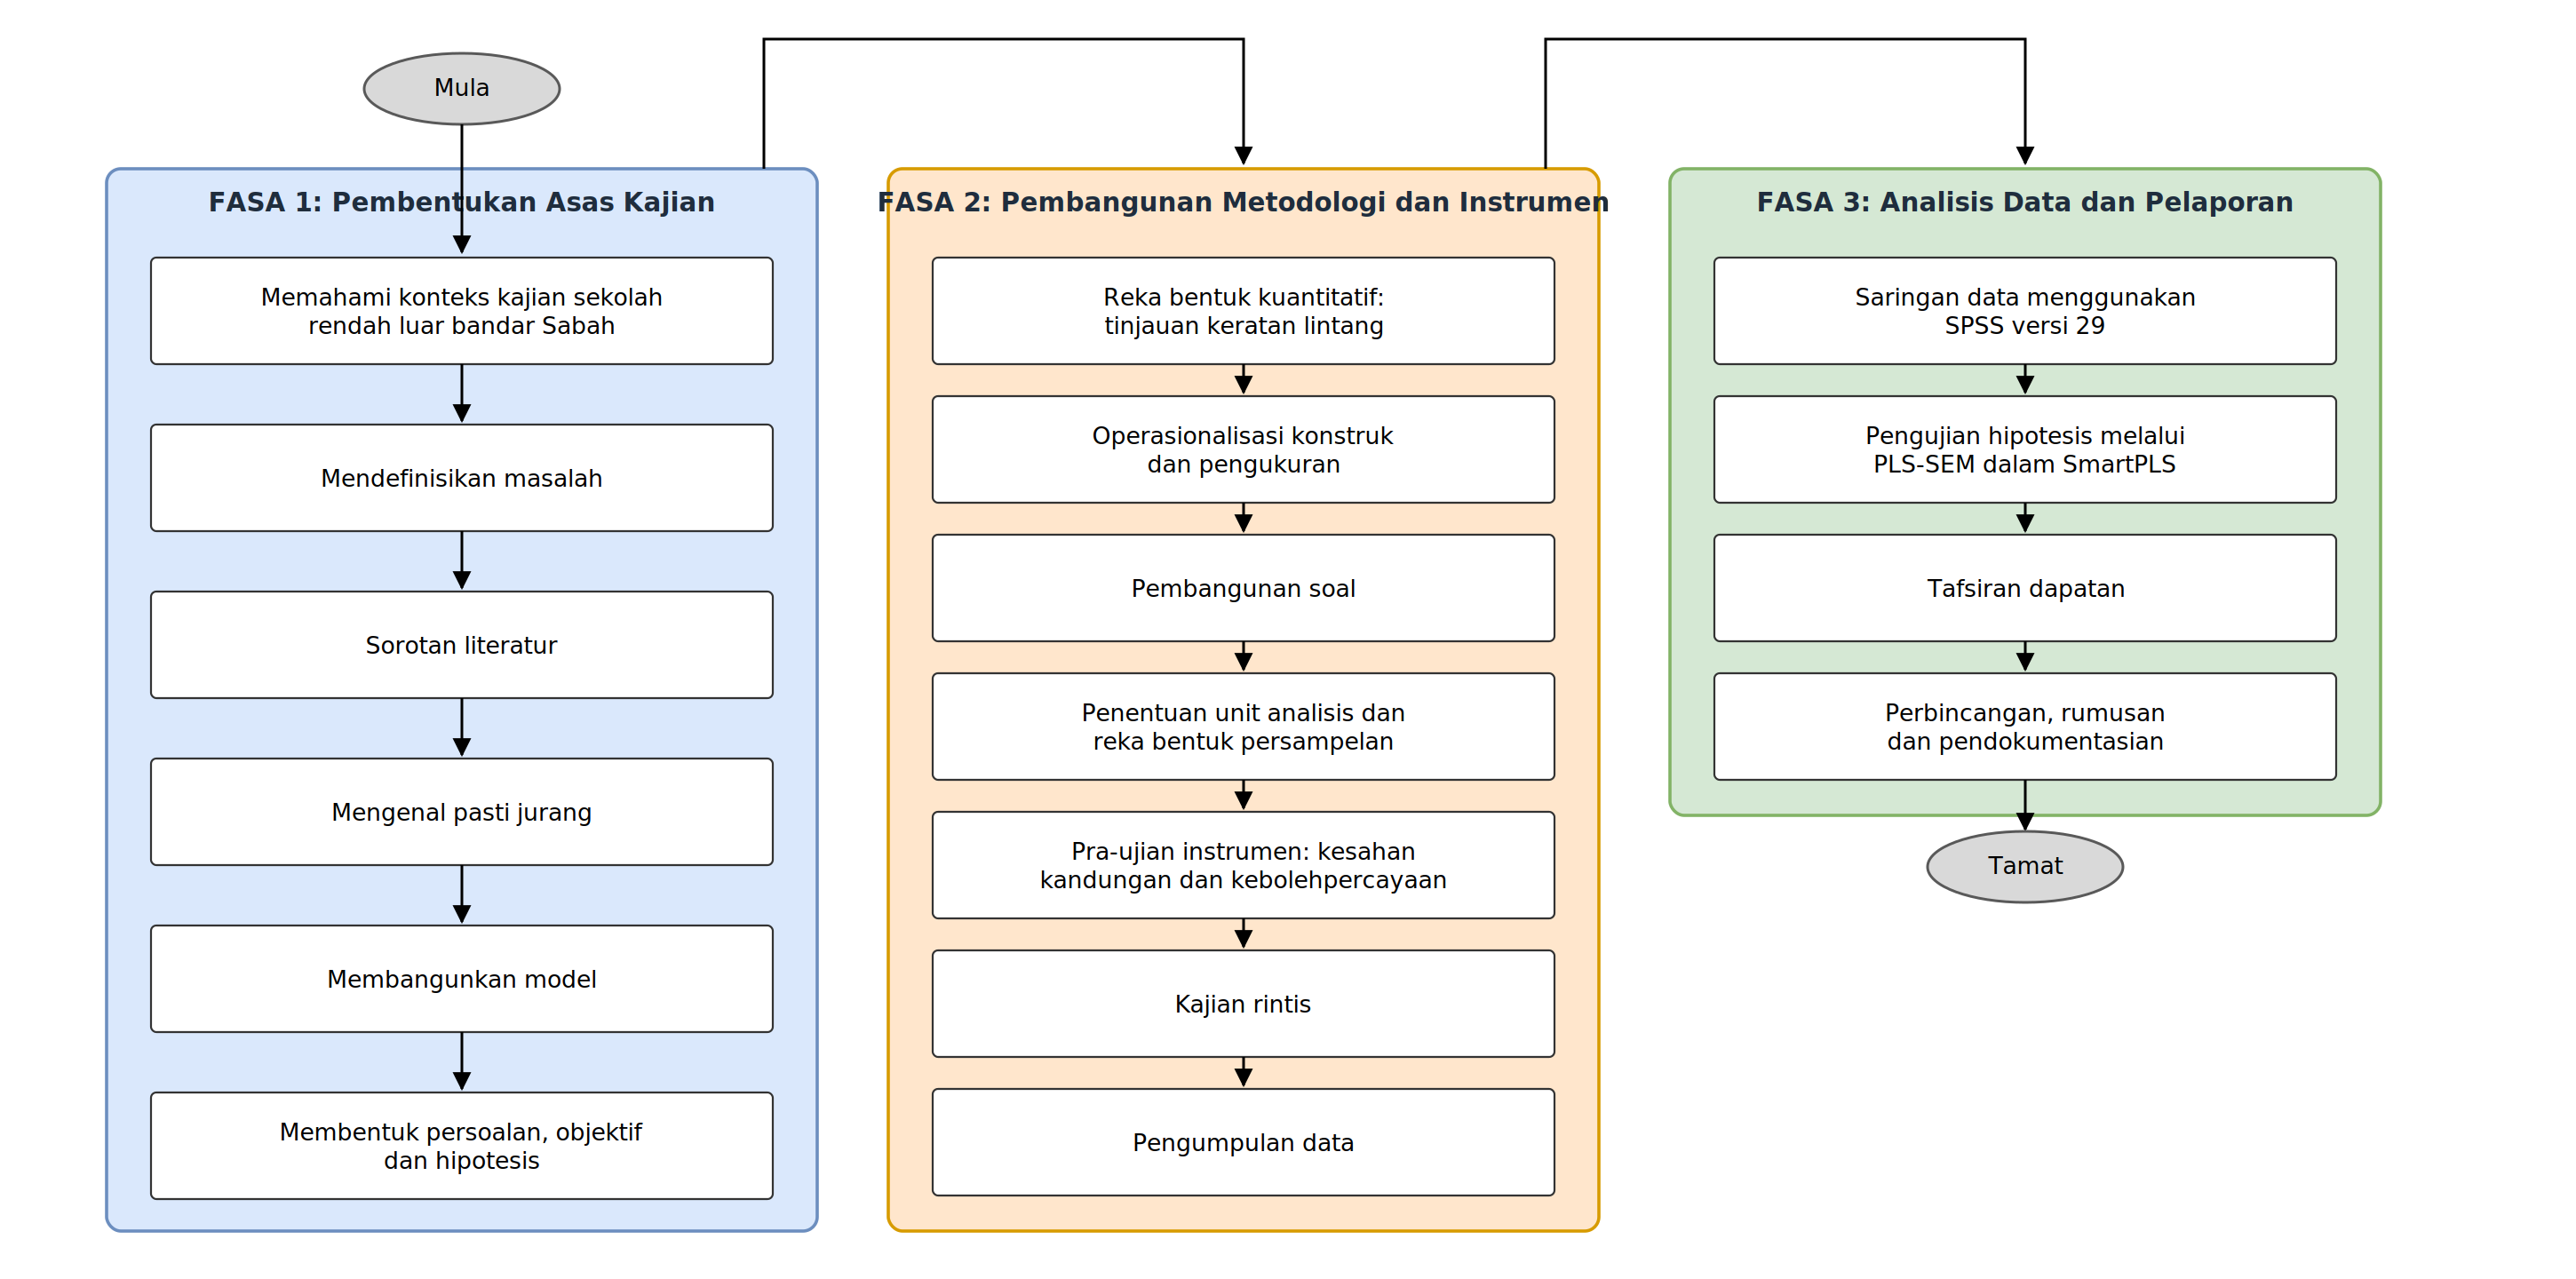
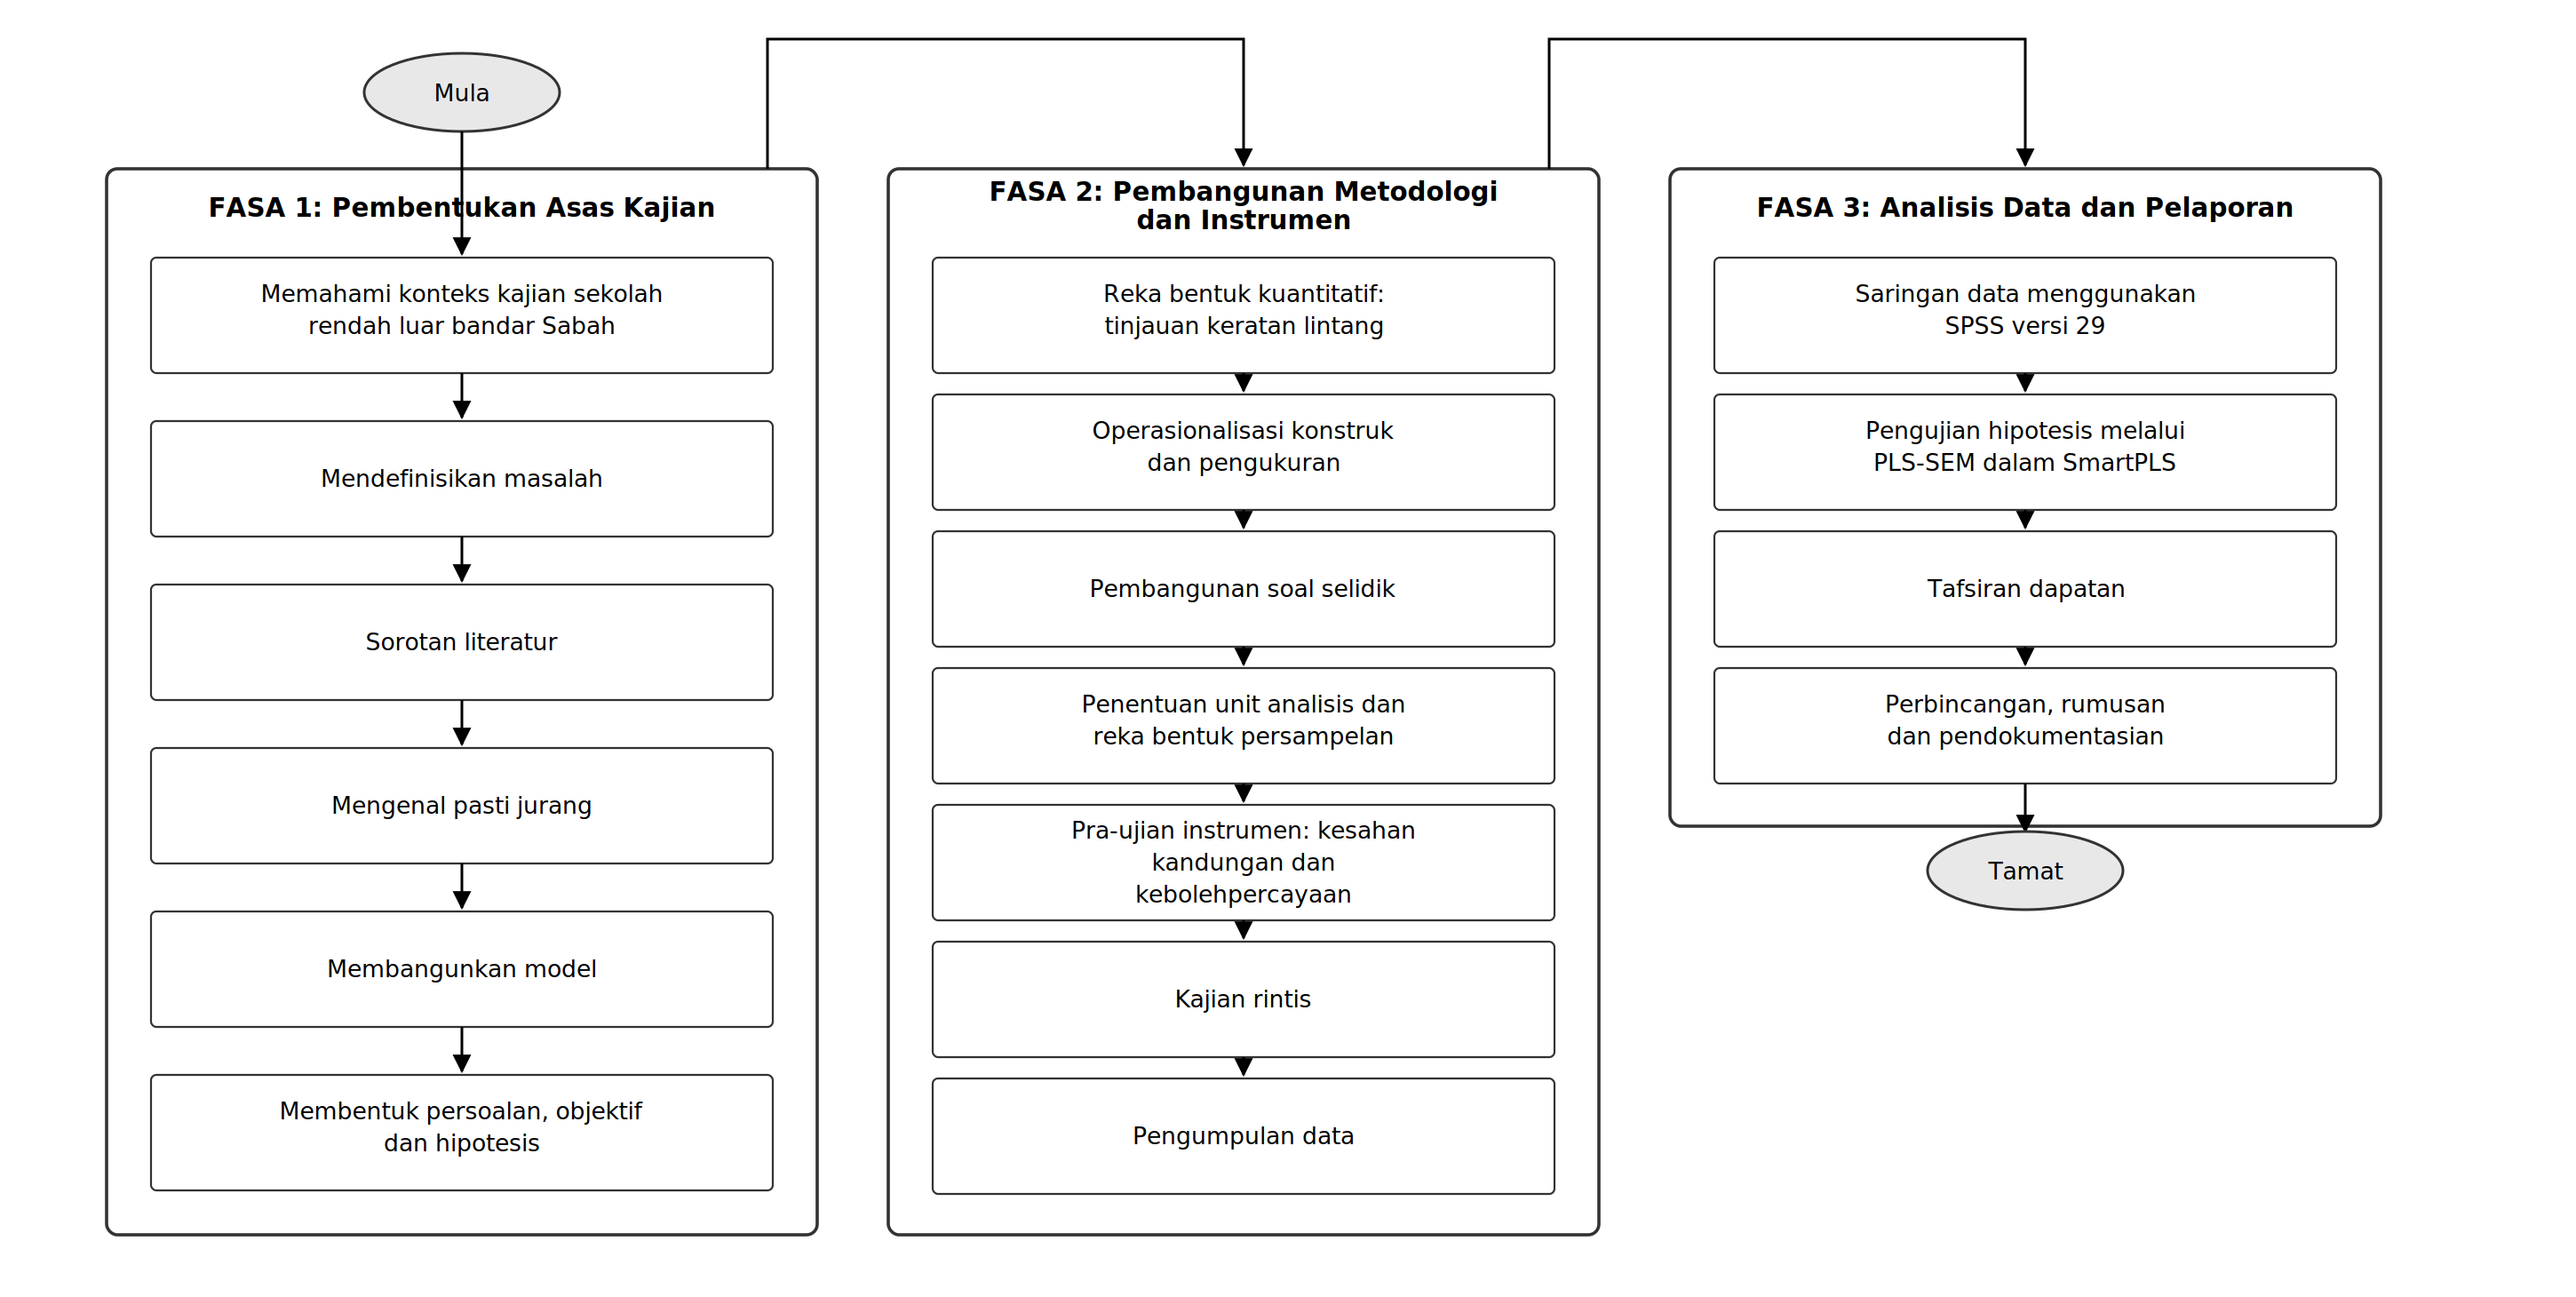
fix: remove color tones from phase frames and ensure text fits within boxes
All phase frame backgrounds changed to white (no color tone).
Box height increased from 60px to 65px. Long text strings split into
more lines to prevent overflow. FASA 2 box 5 split into 3 lines.

https://claude.ai/code/session_01TcAawKjrDPgshdcGRMTjRm

diff --git a/rajah_aliran_kajian.html b/rajah_aliran_kajian.html
@@ -41,7 +41,16 @@
 <div class="container">
 <h1 class="tajuk">Rajah Aliran Proses Kajian</h1>
 
-<svg viewBox="0 0 1450 720" xmlns="http://www.w3.org/2000/svg"
+<!--
+  Layout:
+  - Box height: 65px, box width: 350px
+  - FASA 1 boxes (6): y = 145, 237, 329, 421, 513, 605  (gap ~27px)
+  - FASA 2 boxes (7): y = 145, 222, 299, 376, 453, 530, 607  (gap ~12px)
+  - FASA 3 boxes (4): y = 145, 222, 299, 376  (gap ~12px)
+  - Phase frames: white fill, black border (no color tone)
+  - Text: single-line y = y_top+37; two-lines y1 = y_top+25, y2 = y_top+43
+-->
+<svg viewBox="0 0 1450 730" xmlns="http://www.w3.org/2000/svg"
      font-family="Tahoma, Geneva, sans-serif">
 
   <defs>
@@ -51,195 +60,213 @@
     </marker>
   </defs>
 
-  <!-- ========== PHASE FRAMES ========== -->
-  <!-- FASA 1: Light Blue -->
-  <rect x="60" y="95" width="400" height="598" rx="8" ry="8"
-        fill="#DAE8FC" stroke="#6C8EBF" stroke-width="1.8"/>
-  <!-- FASA 2: Light Orange/Peach -->
-  <rect x="500" y="95" width="400" height="598" rx="8" ry="8"
-        fill="#FFE6CC" stroke="#D79B00" stroke-width="1.8"/>
-  <!-- FASA 3: Light Green -->
-  <rect x="940" y="95" width="400" height="364" rx="8" ry="8"
-        fill="#D5E8D4" stroke="#82B366" stroke-width="1.8"/>
+  <!-- ========== PHASE FRAMES (no color tone — white fill, black border) ========== -->
+  <!-- FASA 1 -->
+  <rect x="60" y="95" width="400" height="600" rx="6" ry="6"
+        fill="#FFFFFF" stroke="#333" stroke-width="1.8"/>
+  <!-- FASA 2 -->
+  <rect x="500" y="95" width="400" height="600" rx="6" ry="6"
+        fill="#FFFFFF" stroke="#333" stroke-width="1.8"/>
+  <!-- FASA 3 -->
+  <rect x="940" y="95" width="400" height="370" rx="6" ry="6"
+        fill="#FFFFFF" stroke="#333" stroke-width="1.8"/>
 
   <!-- ========== PHASE TITLES ========== -->
-  <text x="260" y="119" font-size="11pt" font-weight="bold" text-anchor="middle" fill="#1F2D3D">
+  <text x="260" y="122" font-size="11pt" font-weight="bold" text-anchor="middle" fill="#000">
     FASA 1: Pembentukan Asas Kajian
   </text>
-  <text x="700" y="119" font-size="11pt" font-weight="bold" text-anchor="middle" fill="#1F2D3D">
-    FASA 2: Pembangunan Metodologi dan Instrumen
+  <text font-size="11pt" font-weight="bold" text-anchor="middle" fill="#000">
+    <tspan x="700" y="113">FASA 2: Pembangunan Metodologi</tspan>
+    <tspan x="700" y="129">dan Instrumen</tspan>
   </text>
-  <text x="1140" y="119" font-size="11pt" font-weight="bold" text-anchor="middle" fill="#1F2D3D">
+  <text x="1140" y="122" font-size="11pt" font-weight="bold" text-anchor="middle" fill="#000">
     FASA 3: Analisis Data dan Pelaporan
   </text>
 
   <!-- ========== MULA ========== -->
-  <ellipse cx="260" cy="50" rx="55" ry="20"
-           fill="#D9D9D9" stroke="#595959" stroke-width="1.5"/>
-  <text x="260" y="54" font-size="10pt" text-anchor="middle">Mula</text>
+  <ellipse cx="260" cy="52" rx="55" ry="22"
+           fill="#E8E8E8" stroke="#333" stroke-width="1.5"/>
+  <text x="260" y="57" font-size="10pt" text-anchor="middle" fill="#000">Mula</text>
 
-  <!-- Mula -> first box of FASA 1 -->
-  <line x1="260" y1="70" x2="260" y2="142" stroke="#000" stroke-width="1.5"
+  <!-- Mula -> FASA 1 box 1 -->
+  <line x1="260" y1="74" x2="260" y2="143" stroke="#000" stroke-width="1.5"
         marker-end="url(#arrow)"/>
 
   <!-- ========== TOP INTER-PHASE CONNECTORS ========== -->
-  <!-- FASA 1 top-right -> FASA 2 top-center -->
-  <path d="M 430 95 L 430 22 L 700 22 L 700 92" fill="none"
+  <!-- FASA 1 top-right -> top of FASA 2 -->
+  <path d="M 432 95 L 432 22 L 700 22 L 700 93" fill="none"
         stroke="#000" stroke-width="1.5" marker-end="url(#arrow)"/>
-  <!-- FASA 2 top-right -> FASA 3 top-center -->
-  <path d="M 870 95 L 870 22 L 1140 22 L 1140 92" fill="none"
+  <!-- FASA 2 top-right -> top of FASA 3 -->
+  <path d="M 872 95 L 872 22 L 1140 22 L 1140 93" fill="none"
         stroke="#000" stroke-width="1.5" marker-end="url(#arrow)"/>
 
   <!-- ============================================================ -->
-  <!-- ================== FASA 1 BOXES ============================ -->
+  <!-- =================== FASA 1 BOXES =========================== -->
   <!-- ============================================================ -->
 
-  <!-- Box 1 -->
-  <rect x="85" y="145" width="350" height="60" rx="3" ry="3"
+  <!-- F1 Box 1: y=145  two lines -->
+  <rect x="85" y="145" width="350" height="65" rx="3" ry="3"
         fill="#FFFFFF" stroke="#333" stroke-width="1.1"/>
-  <text font-size="10pt" text-anchor="middle">
-    <tspan x="260" y="172">Memahami konteks kajian sekolah</tspan>
+  <text font-size="10pt" text-anchor="middle" fill="#000">
+    <tspan x="260" y="170">Memahami konteks kajian sekolah</tspan>
     <tspan x="260" y="188">rendah luar bandar Sabah</tspan>
   </text>
 
-  <!-- Box 2 -->
-  <rect x="85" y="239" width="350" height="60" rx="3" ry="3"
+  <!-- F1 Box 2: y=237  one line -->
+  <rect x="85" y="237" width="350" height="65" rx="3" ry="3"
         fill="#FFFFFF" stroke="#333" stroke-width="1.1"/>
-  <text x="260" y="274" font-size="10pt" text-anchor="middle">Mendefinisikan masalah</text>
-
-  <!-- Box 3 -->
-  <rect x="85" y="333" width="350" height="60" rx="3" ry="3"
-        fill="#FFFFFF" stroke="#333" stroke-width="1.1"/>
-  <text x="260" y="368" font-size="10pt" text-anchor="middle">Sorotan literatur</text>
-
-  <!-- Box 4 -->
-  <rect x="85" y="427" width="350" height="60" rx="3" ry="3"
-        fill="#FFFFFF" stroke="#333" stroke-width="1.1"/>
-  <text x="260" y="462" font-size="10pt" text-anchor="middle">Mengenal pasti jurang</text>
-
-  <!-- Box 5 -->
-  <rect x="85" y="521" width="350" height="60" rx="3" ry="3"
-        fill="#FFFFFF" stroke="#333" stroke-width="1.1"/>
-  <text x="260" y="556" font-size="10pt" text-anchor="middle">Membangunkan model</text>
-
-  <!-- Box 6 -->
-  <rect x="85" y="615" width="350" height="60" rx="3" ry="3"
-        fill="#FFFFFF" stroke="#333" stroke-width="1.1"/>
-  <text font-size="10pt" text-anchor="middle">
-    <tspan x="260" y="642">Membentuk persoalan, objektif</tspan>
-    <tspan x="260" y="658">dan hipotesis</tspan>
+  <text x="260" y="274" font-size="10pt" text-anchor="middle" fill="#000">
+    Mendefinisikan masalah
   </text>
 
-  <!-- FASA 1 internal arrows -->
-  <line x1="260" y1="205" x2="260" y2="237" stroke="#000" stroke-width="1.5" marker-end="url(#arrow)"/>
-  <line x1="260" y1="299" x2="260" y2="331" stroke="#000" stroke-width="1.5" marker-end="url(#arrow)"/>
-  <line x1="260" y1="393" x2="260" y2="425" stroke="#000" stroke-width="1.5" marker-end="url(#arrow)"/>
-  <line x1="260" y1="487" x2="260" y2="519" stroke="#000" stroke-width="1.5" marker-end="url(#arrow)"/>
-  <line x1="260" y1="581" x2="260" y2="613" stroke="#000" stroke-width="1.5" marker-end="url(#arrow)"/>
-
-  <!-- ============================================================ -->
-  <!-- ================== FASA 2 BOXES ============================ -->
-  <!-- ============================================================ -->
-
-  <!-- Box 1 -->
-  <rect x="525" y="145" width="350" height="60" rx="3" ry="3"
+  <!-- F1 Box 3: y=329  one line -->
+  <rect x="85" y="329" width="350" height="65" rx="3" ry="3"
         fill="#FFFFFF" stroke="#333" stroke-width="1.1"/>
-  <text font-size="10pt" text-anchor="middle">
-    <tspan x="700" y="172">Reka bentuk kuantitatif:</tspan>
+  <text x="260" y="366" font-size="10pt" text-anchor="middle" fill="#000">
+    Sorotan literatur
+  </text>
+
+  <!-- F1 Box 4: y=421  one line -->
+  <rect x="85" y="421" width="350" height="65" rx="3" ry="3"
+        fill="#FFFFFF" stroke="#333" stroke-width="1.1"/>
+  <text x="260" y="458" font-size="10pt" text-anchor="middle" fill="#000">
+    Mengenal pasti jurang
+  </text>
+
+  <!-- F1 Box 5: y=513  one line -->
+  <rect x="85" y="513" width="350" height="65" rx="3" ry="3"
+        fill="#FFFFFF" stroke="#333" stroke-width="1.1"/>
+  <text x="260" y="550" font-size="10pt" text-anchor="middle" fill="#000">
+    Membangunkan model
+  </text>
+
+  <!-- F1 Box 6: y=605  two lines -->
+  <rect x="85" y="605" width="350" height="65" rx="3" ry="3"
+        fill="#FFFFFF" stroke="#333" stroke-width="1.1"/>
+  <text font-size="10pt" text-anchor="middle" fill="#000">
+    <tspan x="260" y="630">Membentuk persoalan, objektif</tspan>
+    <tspan x="260" y="648">dan hipotesis</tspan>
+  </text>
+
+  <!-- FASA 1 internal arrows  (bottom of box = y_top+65, next top = y_top+65+gap) -->
+  <line x1="260" y1="210" x2="260" y2="235" stroke="#000" stroke-width="1.5" marker-end="url(#arrow)"/>
+  <line x1="260" y1="302" x2="260" y2="327" stroke="#000" stroke-width="1.5" marker-end="url(#arrow)"/>
+  <line x1="260" y1="394" x2="260" y2="419" stroke="#000" stroke-width="1.5" marker-end="url(#arrow)"/>
+  <line x1="260" y1="486" x2="260" y2="511" stroke="#000" stroke-width="1.5" marker-end="url(#arrow)"/>
+  <line x1="260" y1="578" x2="260" y2="603" stroke="#000" stroke-width="1.5" marker-end="url(#arrow)"/>
+
+  <!-- ============================================================ -->
+  <!-- =================== FASA 2 BOXES =========================== -->
+  <!-- ============================================================ -->
+
+  <!-- F2 Box 1: y=145  two lines -->
+  <rect x="525" y="145" width="350" height="65" rx="3" ry="3"
+        fill="#FFFFFF" stroke="#333" stroke-width="1.1"/>
+  <text font-size="10pt" text-anchor="middle" fill="#000">
+    <tspan x="700" y="170">Reka bentuk kuantitatif:</tspan>
     <tspan x="700" y="188">tinjauan keratan lintang</tspan>
   </text>
 
-  <!-- Box 2 -->
-  <rect x="525" y="223" width="350" height="60" rx="3" ry="3"
+  <!-- F2 Box 2: y=222  two lines -->
+  <rect x="525" y="222" width="350" height="65" rx="3" ry="3"
         fill="#FFFFFF" stroke="#333" stroke-width="1.1"/>
-  <text font-size="10pt" text-anchor="middle">
-    <tspan x="700" y="250">Operasionalisasi konstruk</tspan>
-    <tspan x="700" y="266">dan pengukuran</tspan>
+  <text font-size="10pt" text-anchor="middle" fill="#000">
+    <tspan x="700" y="247">Operasionalisasi konstruk</tspan>
+    <tspan x="700" y="265">dan pengukuran</tspan>
   </text>
 
-  <!-- Box 3 -->
-  <rect x="525" y="301" width="350" height="60" rx="3" ry="3"
+  <!-- F2 Box 3: y=299  one line -->
+  <rect x="525" y="299" width="350" height="65" rx="3" ry="3"
         fill="#FFFFFF" stroke="#333" stroke-width="1.1"/>
-  <text x="700" y="336" font-size="10pt" text-anchor="middle">Pembangunan soal</text>
-
-  <!-- Box 4 -->
-  <rect x="525" y="379" width="350" height="60" rx="3" ry="3"
-        fill="#FFFFFF" stroke="#333" stroke-width="1.1"/>
-  <text font-size="10pt" text-anchor="middle">
-    <tspan x="700" y="406">Penentuan unit analisis dan</tspan>
-    <tspan x="700" y="422">reka bentuk persampelan</tspan>
+  <text x="700" y="336" font-size="10pt" text-anchor="middle" fill="#000">
+    Pembangunan soal selidik
   </text>
 
-  <!-- Box 5 -->
-  <rect x="525" y="457" width="350" height="60" rx="3" ry="3"
+  <!-- F2 Box 4: y=376  two lines -->
+  <rect x="525" y="376" width="350" height="65" rx="3" ry="3"
         fill="#FFFFFF" stroke="#333" stroke-width="1.1"/>
-  <text font-size="10pt" text-anchor="middle">
-    <tspan x="700" y="484">Pra-ujian instrumen: kesahan</tspan>
-    <tspan x="700" y="500">kandungan dan kebolehpercayaan</tspan>
+  <text font-size="10pt" text-anchor="middle" fill="#000">
+    <tspan x="700" y="401">Penentuan unit analisis dan</tspan>
+    <tspan x="700" y="419">reka bentuk persampelan</tspan>
   </text>
 
-  <!-- Box 6 -->
-  <rect x="525" y="535" width="350" height="60" rx="3" ry="3"
+  <!-- F2 Box 5: y=453  three lines (long text) -->
+  <rect x="525" y="453" width="350" height="65" rx="3" ry="3"
         fill="#FFFFFF" stroke="#333" stroke-width="1.1"/>
-  <text x="700" y="570" font-size="10pt" text-anchor="middle">Kajian rintis</text>
+  <text font-size="10pt" text-anchor="middle" fill="#000">
+    <tspan x="700" y="472">Pra-ujian instrumen: kesahan</tspan>
+    <tspan x="700" y="490">kandungan dan</tspan>
+    <tspan x="700" y="508">kebolehpercayaan</tspan>
+  </text>
 
-  <!-- Box 7 -->
-  <rect x="525" y="613" width="350" height="60" rx="3" ry="3"
+  <!-- F2 Box 6: y=530  one line -->
+  <rect x="525" y="530" width="350" height="65" rx="3" ry="3"
         fill="#FFFFFF" stroke="#333" stroke-width="1.1"/>
-  <text x="700" y="648" font-size="10pt" text-anchor="middle">Pengumpulan data</text>
+  <text x="700" y="567" font-size="10pt" text-anchor="middle" fill="#000">
+    Kajian rintis
+  </text>
+
+  <!-- F2 Box 7: y=607  one line -->
+  <rect x="525" y="607" width="350" height="65" rx="3" ry="3"
+        fill="#FFFFFF" stroke="#333" stroke-width="1.1"/>
+  <text x="700" y="644" font-size="10pt" text-anchor="middle" fill="#000">
+    Pengumpulan data
+  </text>
 
   <!-- FASA 2 internal arrows -->
-  <line x1="700" y1="205" x2="700" y2="221" stroke="#000" stroke-width="1.5" marker-end="url(#arrow)"/>
-  <line x1="700" y1="283" x2="700" y2="299" stroke="#000" stroke-width="1.5" marker-end="url(#arrow)"/>
-  <line x1="700" y1="361" x2="700" y2="377" stroke="#000" stroke-width="1.5" marker-end="url(#arrow)"/>
-  <line x1="700" y1="439" x2="700" y2="455" stroke="#000" stroke-width="1.5" marker-end="url(#arrow)"/>
-  <line x1="700" y1="517" x2="700" y2="533" stroke="#000" stroke-width="1.5" marker-end="url(#arrow)"/>
-  <line x1="700" y1="595" x2="700" y2="611" stroke="#000" stroke-width="1.5" marker-end="url(#arrow)"/>
+  <line x1="700" y1="210" x2="700" y2="220" stroke="#000" stroke-width="1.5" marker-end="url(#arrow)"/>
+  <line x1="700" y1="287" x2="700" y2="297" stroke="#000" stroke-width="1.5" marker-end="url(#arrow)"/>
+  <line x1="700" y1="364" x2="700" y2="374" stroke="#000" stroke-width="1.5" marker-end="url(#arrow)"/>
+  <line x1="700" y1="441" x2="700" y2="451" stroke="#000" stroke-width="1.5" marker-end="url(#arrow)"/>
+  <line x1="700" y1="518" x2="700" y2="528" stroke="#000" stroke-width="1.5" marker-end="url(#arrow)"/>
+  <line x1="700" y1="595" x2="700" y2="605" stroke="#000" stroke-width="1.5" marker-end="url(#arrow)"/>
 
   <!-- ============================================================ -->
-  <!-- ================== FASA 3 BOXES ============================ -->
+  <!-- =================== FASA 3 BOXES =========================== -->
   <!-- ============================================================ -->
 
-  <!-- Box 1 -->
-  <rect x="965" y="145" width="350" height="60" rx="3" ry="3"
+  <!-- F3 Box 1: y=145  two lines -->
+  <rect x="965" y="145" width="350" height="65" rx="3" ry="3"
         fill="#FFFFFF" stroke="#333" stroke-width="1.1"/>
-  <text font-size="10pt" text-anchor="middle">
-    <tspan x="1140" y="172">Saringan data menggunakan</tspan>
+  <text font-size="10pt" text-anchor="middle" fill="#000">
+    <tspan x="1140" y="170">Saringan data menggunakan</tspan>
     <tspan x="1140" y="188">SPSS versi 29</tspan>
   </text>
 
-  <!-- Box 2 -->
-  <rect x="965" y="223" width="350" height="60" rx="3" ry="3"
+  <!-- F3 Box 2: y=222  two lines -->
+  <rect x="965" y="222" width="350" height="65" rx="3" ry="3"
         fill="#FFFFFF" stroke="#333" stroke-width="1.1"/>
-  <text font-size="10pt" text-anchor="middle">
-    <tspan x="1140" y="250">Pengujian hipotesis melalui</tspan>
-    <tspan x="1140" y="266">PLS-SEM dalam SmartPLS</tspan>
+  <text font-size="10pt" text-anchor="middle" fill="#000">
+    <tspan x="1140" y="247">Pengujian hipotesis melalui</tspan>
+    <tspan x="1140" y="265">PLS-SEM dalam SmartPLS</tspan>
   </text>
 
-  <!-- Box 3 -->
-  <rect x="965" y="301" width="350" height="60" rx="3" ry="3"
+  <!-- F3 Box 3: y=299  one line -->
+  <rect x="965" y="299" width="350" height="65" rx="3" ry="3"
         fill="#FFFFFF" stroke="#333" stroke-width="1.1"/>
-  <text x="1140" y="336" font-size="10pt" text-anchor="middle">Tafsiran dapatan</text>
+  <text x="1140" y="336" font-size="10pt" text-anchor="middle" fill="#000">
+    Tafsiran dapatan
+  </text>
 
-  <!-- Box 4 -->
-  <rect x="965" y="379" width="350" height="60" rx="3" ry="3"
+  <!-- F3 Box 4: y=376  two lines -->
+  <rect x="965" y="376" width="350" height="65" rx="3" ry="3"
         fill="#FFFFFF" stroke="#333" stroke-width="1.1"/>
-  <text font-size="10pt" text-anchor="middle">
-    <tspan x="1140" y="406">Perbincangan, rumusan</tspan>
-    <tspan x="1140" y="422">dan pendokumentasian</tspan>
+  <text font-size="10pt" text-anchor="middle" fill="#000">
+    <tspan x="1140" y="401">Perbincangan, rumusan</tspan>
+    <tspan x="1140" y="419">dan pendokumentasian</tspan>
   </text>
 
   <!-- FASA 3 internal arrows -->
-  <line x1="1140" y1="205" x2="1140" y2="221" stroke="#000" stroke-width="1.5" marker-end="url(#arrow)"/>
-  <line x1="1140" y1="283" x2="1140" y2="299" stroke="#000" stroke-width="1.5" marker-end="url(#arrow)"/>
-  <line x1="1140" y1="361" x2="1140" y2="377" stroke="#000" stroke-width="1.5" marker-end="url(#arrow)"/>
+  <line x1="1140" y1="210" x2="1140" y2="220" stroke="#000" stroke-width="1.5" marker-end="url(#arrow)"/>
+  <line x1="1140" y1="287" x2="1140" y2="297" stroke="#000" stroke-width="1.5" marker-end="url(#arrow)"/>
+  <line x1="1140" y1="364" x2="1140" y2="374" stroke="#000" stroke-width="1.5" marker-end="url(#arrow)"/>
 
   <!-- ========== TAMAT ========== -->
-  <!-- Arrow from FASA 3 box 4 -> Tamat -->
-  <line x1="1140" y1="439" x2="1140" y2="467" stroke="#000" stroke-width="1.5" marker-end="url(#arrow)"/>
-  <ellipse cx="1140" cy="488" rx="55" ry="20"
-           fill="#D9D9D9" stroke="#595959" stroke-width="1.5"/>
-  <text x="1140" y="492" font-size="10pt" text-anchor="middle">Tamat</text>
+  <line x1="1140" y1="441" x2="1140" y2="468" stroke="#000" stroke-width="1.5"
+        marker-end="url(#arrow)"/>
+  <ellipse cx="1140" cy="490" rx="55" ry="22"
+           fill="#E8E8E8" stroke="#333" stroke-width="1.5"/>
+  <text x="1140" y="495" font-size="10pt" text-anchor="middle" fill="#000">Tamat</text>
 
 </svg>
 